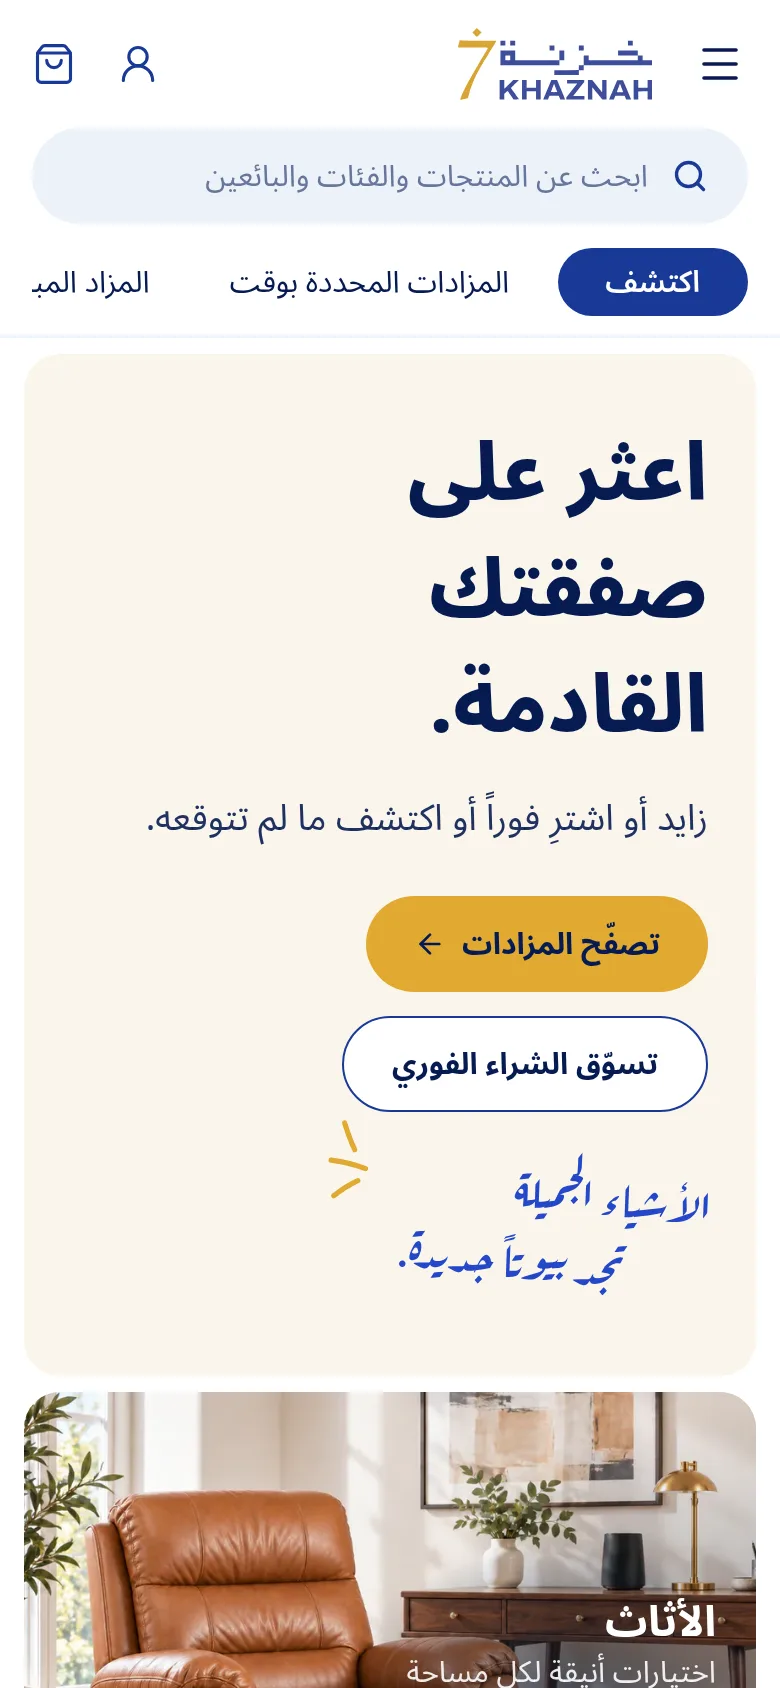
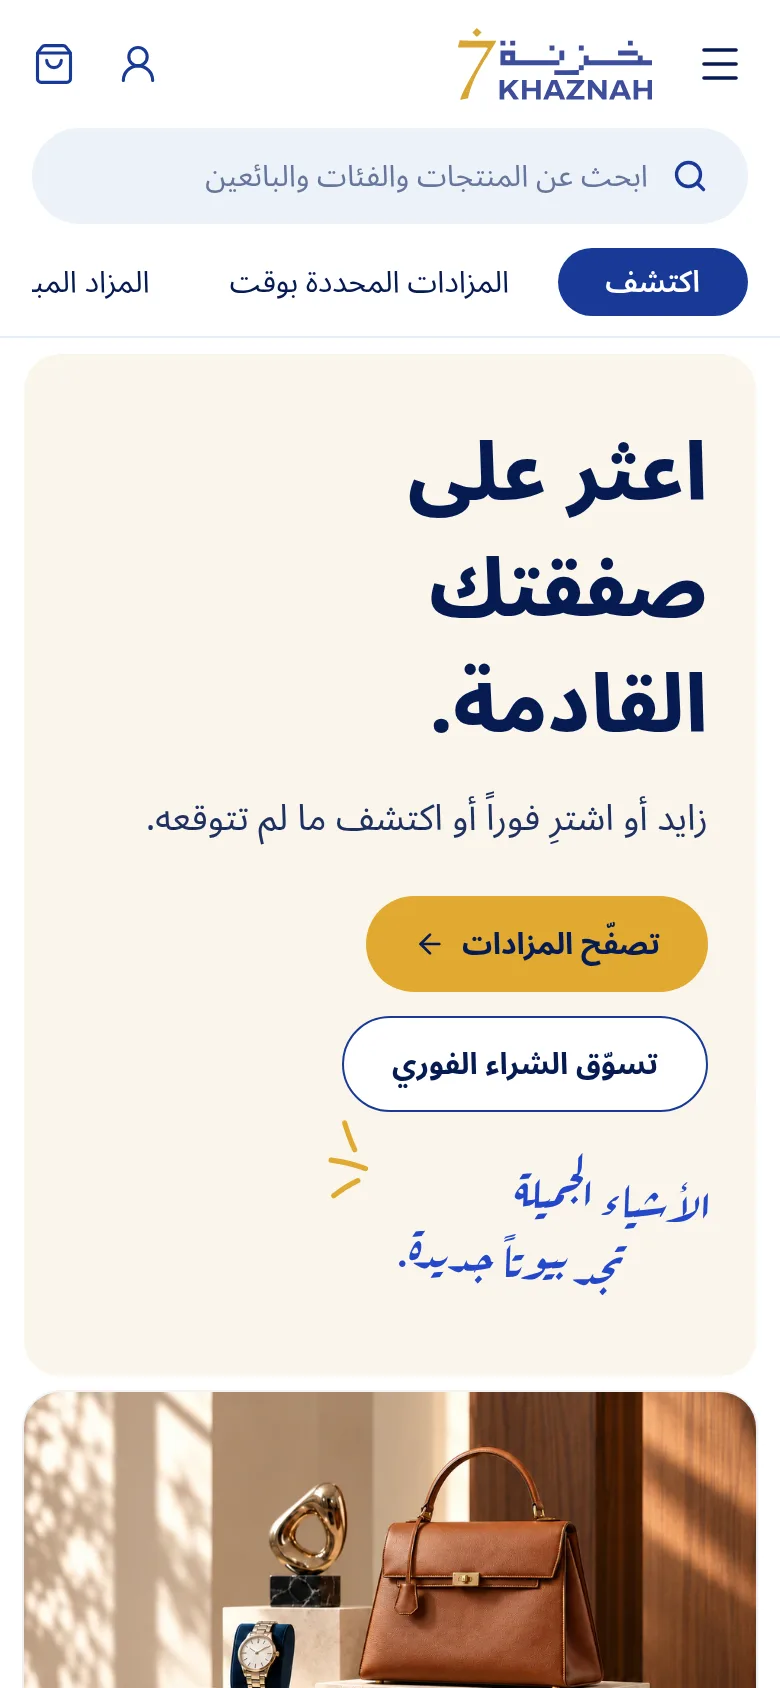
feat: add approved Option 3 marketplace navigation artwork
Replace the Option 3 home hero's Furniture, Electronics and Home & Kitchen
tiles with the approved Auction, Buy Now and Live Auction artwork, in the
same places (Auction stays the largest). The six supplied pictures are
used exactly as supplied: byte-identical masters in
assets-src/option3-cards/ (SHA-256 in ASSET_MANIFEST.json) and WebP
derivatives written by scripts/process-option3-cards.mjs.

- Each language shows its own pictures through the existing /en and /ar
  routes; each card is one link to the existing route for its mode
  (/browse?tab=auction, /browse?tab=buy_now, /live-auction) with an
  accessible name, a decorative picture and a strong focus ring.
- The old tile labels, Explore button, circular arrows and the tote card
  overlay are removed.
- The pictures are fitted around their words, button, products and live
  dot (CSS container units), so nothing is cut at any width; below 1200 px
  the cards follow the pictures' own proportions.
- Refresh the concept selector's Option 3 preview images.

Claude-Session: https://claude.ai/code/session_01SDCz7T7Y1cUSwp1KJV4JsJ

Changed region(s): [[0.0308, 0.8009, 0.9846, 1.0]]

diff --git a/design-preview/components/concept-c/visual-discovery/Hero.jsx b/design-preview/components/concept-c/visual-discovery/Hero.jsx
@@ -5,12 +5,9 @@ import { useId } from "react";
 import { useLang } from "@/components/shared/providers/LangProvider";
 import { useConcept } from "@/components/shared/providers/ConceptProvider";
 import { Img } from "@/components/shared/ui/Img";
-import { Money } from "@/components/shared/ui/Money";
-import { CATEGORY_BY_SLUG } from "@/data/categories";
-import { detailPath } from "@/lib/catalog";
 import { COPY } from "./copy";
-import { HERO } from "./data";
-import { Arrow, HeartDisk, btn, cx } from "./ui";
+import { HERO_CARDS } from "./data";
+import { Arrow, btn, cx } from "./ui";
 
 /** Three small gold sketch strokes beside the handwritten line. */
 function SketchMarks({ className = "" }) {
@@ -59,87 +56,56 @@ function CopyTile({ titleId }) {
 }
 
 /**
- * Centre scene: furniture photograph (A5) with a Furniture label and the
- * overlapping tote card. When the tile is at least 512 px wide (552 px in
- * the 1440 composition) both overlays sit on the photograph's clear floor;
- * on narrower tiles the label moves above the card and gets its own soft
- * scrim, because it then lies over the room rather than the floor.
+ * One of the three ways to shop as its approved artwork card (HERO_CARDS):
+ * the whole card is one link to that mode's existing page, named in
+ * aria-label; the picture is decorative (alt="") because its words would
+ * only repeat that name. The picture is never cropped into its safe area —
+ * words, button, products, live dot: it is scaled and placed to keep that
+ * area in the card with a margin (cover wherever that allows; see .vd-mode
+ * in styles/r3-visual-discovery.css). Hover: a 1.5 % zoom and a soft lift;
+ * focus: a 3 px indigo ring.
  */
-function FurnitureTile() {
-  const { t, ui } = useLang();
+function ModeCard({ card, className = "" }) {
+  const { t, lang } = useLang();
   const { link } = useConcept();
-  const tote = HERO.tote;
+  const art = card.art[lang];
   return (
-    <div className="@container relative h-full min-h-[380px] overflow-hidden rounded-[18px] bg-[#e8e1d8]">
-      <Img image={HERO.furniture.image} alt="" priority sizes="(min-width: 1200px) 556px, (min-width: 768px) 50vw, 100vw" className="absolute inset-0 size-full object-cover" style={{ objectPosition: HERO.furniture.focus }} />
-      <span aria-hidden="true" className="absolute inset-y-0 start-0 w-[70%] bg-[radial-gradient(ellipse_at_bottom_left,rgb(6_20_40/0.72),rgb(6_20_40/0.3)_45%,transparent_70%)] rtl:bg-[radial-gradient(ellipse_at_bottom_right,rgb(6_20_40/0.72),rgb(6_20_40/0.3)_45%,transparent_70%)]" />
-      <div className="absolute bottom-[178px] start-5 isolate max-w-[70%] text-white before:absolute before:-inset-x-8 before:-inset-y-6 before:-z-10 before:bg-[radial-gradient(closest-side,rgb(6_20_40/0.55),transparent)] before:content-[''] @min-[512px]:bottom-[10px] @min-[512px]:start-[14px] @min-[512px]:max-w-[48%] @min-[512px]:before:hidden">
-        <p className="vd-h3 !text-[21px] !leading-7 text-white">{t(COPY.furniture)}</p>
-        <p className="vd-md text-white/90">{t(COPY.furnitureText)}</p>
-        <Link href={link("/browse?category=furniture")} aria-label={t(COPY.exploreNamed, { name: t(COPY.furniture) })} className={btn("white", "sm", "mt-3 h-[38px] gap-3 px-5 dt:mt-[9px] dt:h-[34px] dt:px-[22px]")}>
-          {t(COPY.explore)}
-          <Arrow />
-        </Link>
-      </div>
-      {/* Overlapping tote card, anchored in the scene's lower end corner */}
-      <article className="absolute bottom-[11px] end-[11px] grid h-[154px] w-[284px] grid-cols-[112px_minmax(0,1fr)] overflow-hidden rounded-[16px] bg-[var(--vd-ivory)] shadow-[0_10px_28px_-12px_rgb(7_27_82/0.45)] max-sm:w-[250px]">
-        <div className="relative">
-          <Img image={tote.images[0]} cutout alt="" sizes="112px" className="absolute inset-0 size-full object-contain px-2.5 py-3" />
-        </div>
-        <div className="relative flex min-w-0 flex-col justify-center pe-3">
-          <HeartDisk product={tote} className="absolute end-2 top-2 !size-8 shadow-none" />
-          <h3 className="line-clamp-2 pe-7 vd-title !text-[14px] !leading-[18px] text-[var(--vd-ink)]">
-            <Link href={link(detailPath(tote))} className="after:absolute after:inset-0 after:content-[''] hover:underline">
-              {t(tote.title)}
-            </Link>
-          </h3>
-          <span className="sr-only">{ui("buyNow")}</span>
-          <Money value={tote.price} className="mt-2 self-start vd-price !text-[22px] text-[var(--vd-ink)]" symbolClassName="text-[0.72em]" />
-        </div>
-      </article>
-    </div>
-  );
-}
-
-/** Category photo tile with a white label plate and a circular arrow. */
-function CategoryPhotoTile({ slug, image, focus, text, plate = false, className = "" }) {
-  const { t } = useLang();
-  const { link } = useConcept();
-  const category = CATEGORY_BY_SLUG[slug];
-  return (
-    <Link href={link(`/browse?category=${slug}`)} className={cx("group relative block overflow-hidden rounded-[18px] outline-offset-2", plate ? "bg-[#dfe8f1]" : "bg-[#f3d9cc]", className)}>
-      <Img
-        image={image}
-        alt=""
-        sizes="(min-width: 1200px) 401px, 50vw"
-        cutout={plate}
-        className={cx("absolute transition-transform duration-300 group-hover:scale-[1.02]", plate ? "end-[4%] top-[7%] h-[70%] w-[80%] object-contain object-right" : "inset-0 size-full object-cover")}
-        style={focus ? { objectPosition: focus } : undefined}
-      />
-      <span className="absolute bottom-[14px] start-0 max-w-[calc(100%-84px)] rounded-e-[14px] bg-white/95 py-2 pe-5 ps-4 dt:bottom-[15px] dt:max-w-[62%]">
-        <span className="block vd-h3 !text-[18px] !leading-6 text-[var(--vd-ink)]">{t(category.name)}</span>
-        <span className="block vd-sm text-[var(--vd-muted)]">{text}</span>
-      </span>
-      <span aria-hidden="true" className="absolute bottom-[14px] end-3 grid size-[52px] place-items-center rounded-full bg-white text-[var(--vd-ink)] shadow-[0_4px_14px_rgb(7_27_82/0.12)] dt:bottom-[17px]">
-        <Arrow className="size-5" />
-      </span>
+    <Link
+      href={link(card.href)}
+      aria-label={t(COPY[card.label])}
+      className={cx(
+        "vd-mode group relative block overflow-hidden rounded-[18px] bg-[#f1e8dc] shadow-[0_1px_2px_rgb(7_27_82/0.06)] ring-1 ring-[var(--vd-ink)]/[0.06] transition-[box-shadow,translate] duration-300 hover:-translate-y-px hover:shadow-[0_16px_34px_-18px_rgb(7_27_82/0.45)] hover:ring-[var(--vd-gold)]/40 focus-visible:outline-[3px] focus-visible:outline-offset-[3px] focus-visible:outline-[var(--vd-indigo)]",
+        className,
+      )}
+      style={art.fit}
+    >
+      <Img image={art.image} alt="" priority sizes={card.sizes} className="vd-mode-art transition-transform duration-500 ease-out group-hover:scale-[1.015]" />
     </Link>
   );
 }
 
+/**
+ * Copy tile, then the three cards: Auction the largest, Buy Now before
+ * Live Auction. From 1200 px the approved three-column mosaic (copy ·
+ * Auction · Buy Now over Live Auction, 520 px high). 1000–1199 px: copy
+ * beside a square Auction card, Buy Now and Live Auction side by side
+ * below. 640–999 px: the copy across the top, then Auction beside Buy Now
+ * over Live Auction. Phones stack the copy and the three cards. Below
+ * 1200 px every card keeps (about) its picture's own proportions, so each
+ * picture shows whole.
+ */
 export function HeroMosaic() {
-  const { t } = useLang();
   const titleId = useId();
   return (
     <section data-ref="03" aria-labelledby={titleId} className="vd-wide pt-2 dt:pt-[8px]">
-      <div className="grid gap-2 md:grid-cols-2 dt:min-h-[520px] dt:grid-cols-[minmax(0,436fr)_minmax(0,556fr)_minmax(0,401fr)] dt:grid-rows-[minmax(0,1fr)] dt:gap-[8px]">
-        <div className="md:col-span-1 dt:col-auto">
+      <div className="grid gap-2 sm:grid-cols-[minmax(0,1.286fr)_minmax(0,1fr)] min-[62.5rem]:grid-cols-2 dt:min-h-[520px] dt:grid-cols-[minmax(0,436fr)_minmax(0,556fr)_minmax(0,401fr)] dt:grid-rows-[minmax(0,1fr)] dt:gap-[8px]">
+        <div className="sm:col-span-2 min-[62.5rem]:col-span-1 dt:col-auto">
           <CopyTile titleId={titleId} />
         </div>
-        <FurnitureTile />
-        <div className="grid gap-2 sm:grid-cols-2 md:col-span-2 dt:col-auto dt:grid-cols-1 dt:grid-rows-[243fr_269fr] dt:gap-[8px]">
-          <CategoryPhotoTile slug="electronics" image={HERO.electronics.image} focus={HERO.electronics.focus} text={t(COPY.electronicsText)} className="min-h-[190px]" />
-          <CategoryPhotoTile slug="home-kitchen" image={HERO.kitchen.image} focus={HERO.kitchen.focus} text={t(COPY.kitchenText)} className="min-h-[190px]" />
+        <ModeCard card={HERO_CARDS.auction} className="aspect-square self-stretch sm:aspect-auto min-[62.5rem]:aspect-square dt:aspect-auto" />
+        <div className="grid gap-2 min-[62.5rem]:col-span-2 min-[62.5rem]:grid-cols-2 dt:col-auto dt:grid-cols-1 dt:grid-rows-[243fr_269fr] dt:gap-[8px]">
+          <ModeCard card={HERO_CARDS.buyNow} className="aspect-[1564/1006] dt:aspect-auto" />
+          <ModeCard card={HERO_CARDS.live} className="aspect-[1564/1006] dt:aspect-auto" />
         </div>
       </div>
     </section>

diff --git a/design-preview/components/concept-c/visual-discovery/data.js b/design-preview/components/concept-c/visual-discovery/data.js
@@ -7,23 +7,64 @@ import { photo } from "@/data/media";
 import { getProduct } from "@/data/products";
 import { SELLER_BY_CODE } from "@/data/sellers";
 import { endingSoon, featuredBuyNow } from "@/lib/catalog";
-import { WORK_MEDIA } from "@/components/shared/r3/work-media";
 import { PRIORITY_2 } from "@/components/shared/r3/work-media-p2";
 
 /**
- * Hero mosaic. The furniture scene is the approved A5 photograph (tan
- * recliner and walnut desk; its lower 28 % is clear floor for the label and
- * the tote card). `focus` keeps the whole chair in view from the widest tile
- * (1.06:1) to the narrowest (0.61:1). The Electronics and Home & Kitchen
- * tiles are the Priority 2 scenes (B5 TV, B6 red coffee maker); their
- * `focus` keeps the top of the TV and of the coffee maker in view in the
- * wide tablet tiles (2.6–3:1 between 1024 and 1199 px).
+ * Hero cards: the approved artwork for the three ways to shop, one picture
+ * per language, used exactly as supplied (assets-src/option3-cards/; the
+ * words, button and products are part of each picture). Each opens the
+ * existing route for its mode. `safe` is the part of the picture that must
+ * always stay in view — the words, the button, the products and the live
+ * dot — as [left, top, right, bottom] in the picture's own pixels; the card
+ * fits the picture around it (see ModeCard in Hero.jsx).
  */
-export const HERO = {
-  furniture: { image: WORK_MEDIA.furnitureScene, focus: "20% 30%" },
-  electronics: { image: PRIORITY_2.heroElectronics, focus: "60% 18%", slug: "electronics" },
-  kitchen: { image: PRIORITY_2.heroKitchen, focus: "68% 20%", slug: "home-kitchen" },
-  tote: getProduct("suede-tote"),
+const cardSources = (name, width, height, widths) =>
+  [...widths, width].map((w) => ({ src: `/images/work/option3-cards/${name}-${w}.webp`, w, h: Math.round((w * height) / width) }));
+
+function artwork(name, width, height, widths, safe) {
+  const [x0, y0, x1, y1] = safe;
+  return {
+    image: { kind: "scene", ratio: width / height, sources: cardSources(name, width, height, widths) },
+    // Read by .vd-mode (styles/r3-visual-discovery.css); --edge feeds the edge strips.
+    fit: {
+      "--edge": `url("/images/work/option3-cards/${name}-${widths[0]}.webp")`,
+      "--ratio": (width / height).toFixed(5),
+      "--fit-x": (width / (x1 - x0)).toFixed(5),
+      "--fit-y": (width / (y1 - y0)).toFixed(5),
+      "--cx": ((x0 + x1) / 2 / width).toFixed(5),
+      "--cy": ((y0 + y1) / 2 / height).toFixed(5),
+    },
+  };
+}
+
+export const HERO_CARDS = {
+  auction: {
+    href: "/browse?tab=auction",
+    label: "modeAuction",
+    sizes: "(min-width: 1200px) 560px, (min-width: 1000px) 50vw, (min-width: 640px) 56vw, calc(100vw - 24px)",
+    art: {
+      en: artwork("option3-auction-en", 1254, 1254, [640, 960], [75, 95, 1190, 1185]),
+      ar: artwork("option3-auction-ar", 1254, 1254, [640, 960], [330, 95, 1190, 1185]),
+    },
+  },
+  buyNow: {
+    href: "/browse?tab=buy_now",
+    label: "modeBuyNow",
+    sizes: "(min-width: 1200px) 420px, (min-width: 1000px) 50vw, (min-width: 640px) 44vw, calc(100vw - 24px)",
+    art: {
+      en: artwork("option3-buy-now-en", 1564, 1006, [640, 960, 1280], [85, 210, 1445, 700]),
+      ar: artwork("option3-buy-now-ar", 1565, 1005, [640, 960, 1280], [110, 210, 1495, 729]),
+    },
+  },
+  live: {
+    href: "/live-auction",
+    label: "modeLive",
+    sizes: "(min-width: 1200px) 420px, (min-width: 1000px) 50vw, (min-width: 640px) 44vw, calc(100vw - 24px)",
+    art: {
+      en: artwork("option3-live-auction-en", 1564, 1006, [640, 960, 1280], [95, 255, 1290, 727]),
+      ar: artwork("option3-live-auction-ar", 1565, 1005, [640, 960, 1280], [252, 255, 1478, 732]),
+    },
+  },
 };
 
 /** Eight outlined icon pills, four by two, in the approved order. */

diff --git a/design-preview/styles/r3-visual-discovery.css b/design-preview/styles/r3-visual-discovery.css
@@ -349,6 +349,51 @@
   .vd-no-spin::-webkit-outer-spin-button { appearance: none; margin: 0; }
 }
 
+/* ── Hero cards (Hero.jsx ModeCard) ─────────────────────────────────────── */
+@layer components {
+  /* Each card is a size container, so the artwork can be fitted to it. The
+     picture is drawn as large as "cover" would draw it, but never larger
+     than keeps its safe area (--fit-x / --fit-y: picture width over the safe
+     area's width / height) inside the card with --m to spare. It is centred
+     on the safe area (--cx / --cy) without leaving a gap where it can cover.
+     Where it has to be drawn smaller than the card (some 1200–1279 px
+     layouts), the strips above and below repeat the picture's own top and
+     bottom edge, softly blurred, so the card stays whole. The geometry is
+     left unresolved here and resolved by the picture and the strips against
+     this card. */
+  .vd-mode {
+    container-type: size;
+    --m: 12px;
+    --w: min(max(100cqw, 100cqh * var(--ratio)), (100cqw - 2 * var(--m)) * var(--fit-x), (100cqh - 2 * var(--m)) * var(--fit-y));
+    --h: calc(var(--w) / var(--ratio));
+    --l: clamp(min(0px, 100cqw - var(--w)), 50cqw - var(--w) * var(--cx), max(0px, 100cqw - var(--w)));
+    --t: clamp(min(0px, 100cqh - var(--h)), 50cqh - var(--h) * var(--cy), max(0px, 100cqh - var(--h)));
+  }
+  .vd-mode-art {
+    position: absolute;
+    max-width: none;
+    width: var(--w);
+    height: var(--h);
+    left: var(--l);
+    top: var(--t);
+  }
+  .vd-mode::before,
+  .vd-mode::after {
+    content: "";
+    position: absolute;
+    left: 0;
+    right: 0;
+    z-index: 1;
+    background-image: var(--edge);
+    background-repeat: no-repeat;
+    background-size: var(--w) calc(var(--h) * 50);
+    filter: blur(3px);
+    pointer-events: none;
+  }
+  .vd-mode::before { top: 0; height: max(0px, var(--t)); background-position: var(--l) 0; }
+  .vd-mode::after { bottom: 0; height: max(0px, 100cqh - var(--t) - var(--h)); background-position: var(--l) 100%; }
+}
+
 /* ── Auction detail ────────────────────────────────────────────────────── */
 @layer components {
   /* Lot title: a display heading, a step under the Browse page title. */

diff --git a/design-preview/components/concept-c/visual-discovery/copy.js b/design-preview/components/concept-c/visual-discovery/copy.js
@@ -49,12 +49,10 @@ export const COPY = {
     { en: "Good things", ar: "الأشياء الجميلة" },
     { en: "find new homes.", ar: "تجد بيوتاً جديدة." },
   ],
-  furniture: { en: "Furniture", ar: "الأثاث" },
-  furnitureText: { en: "Stylish picks for every space", ar: "اختيارات أنيقة لكل مساحة" },
-  explore: { en: "Explore", ar: "استكشف" },
-  exploreNamed: { en: "Explore {name}", ar: "استكشف {name}" },
-  electronicsText: { en: "Top brands, great finds", ar: "علامات معروفة وصفقات رائعة" },
-  kitchenText: { en: "Everything for your home.", ar: "كل ما يحتاجه منزلك." },
+  // Hero cards: each card's whole-card link name (the artwork carries its own words).
+  modeAuction: { en: "Auction — Explore timed auctions", ar: "المزادات — استكشف المزادات المحددة بوقت" },
+  modeBuyNow: { en: "Buy Now — Shop fixed-price items", ar: "اشترِ الآن — تسوّق المنتجات بسعر ثابت" },
+  modeLive: { en: "Live Auction — Join live auctions", ar: "المزاد المباشر — انضم إلى المزادات المباشرة" },
 
   // Categories
   categoriesLabel: { en: "Shop by category", ar: "تسوّق حسب الفئة" },

diff --git a/design-preview/assets-src/option3-cards/DERIVATIVES.md b/design-preview/assets-src/option3-cards/DERIVATIVES.md
@@ -1,0 +1,34 @@
+# Option 3 hero cards — source to derivative mapping
+
+Approved final artwork for the Option 3 home hero cards (Auction, Buy Now, Live Auction; English and
+Arabic), used exactly as supplied. Generated by `scripts/process-option3-cards.mjs` from the masters in
+this folder (byte-identical to the supplied files listed in `ASSET_MANIFEST.json`, SHA-256 checked).
+Served from `public/images/work/option3-cards/`. Nothing is upscaled or cropped; the widest file of
+each card is the master at its own size.
+
+| Source (master) | Master px | Derivative | Px | Bytes |
+|---|---|---|---|---|
+| `option3-auction-en.png` | 1254 × 1254 | `option3-auction-en-640.webp` | 640 × 640 | 68,742 |
+| `option3-auction-en.png` | 1254 × 1254 | `option3-auction-en-960.webp` | 960 × 960 | 138,628 |
+| `option3-auction-en.png` | 1254 × 1254 | `option3-auction-en-1254.webp` | 1254 × 1254 | 217,048 |
+| `option3-auction-ar.png` | 1254 × 1254 | `option3-auction-ar-640.webp` | 640 × 640 | 63,520 |
+| `option3-auction-ar.png` | 1254 × 1254 | `option3-auction-ar-960.webp` | 960 × 960 | 128,080 |
+| `option3-auction-ar.png` | 1254 × 1254 | `option3-auction-ar-1254.webp` | 1254 × 1254 | 192,666 |
+| `option3-buy-now-en.png` | 1564 × 1006 | `option3-buy-now-en-640.webp` | 640 × 412 | 55,698 |
+| `option3-buy-now-en.png` | 1564 × 1006 | `option3-buy-now-en-960.webp` | 960 × 617 | 104,078 |
+| `option3-buy-now-en.png` | 1564 × 1006 | `option3-buy-now-en-1280.webp` | 1280 × 823 | 159,398 |
+| `option3-buy-now-en.png` | 1564 × 1006 | `option3-buy-now-en-1564.webp` | 1564 × 1006 | 201,210 |
+| `option3-buy-now-ar.png` | 1565 × 1005 | `option3-buy-now-ar-640.webp` | 640 × 411 | 56,302 |
+| `option3-buy-now-ar.png` | 1565 × 1005 | `option3-buy-now-ar-960.webp` | 960 × 616 | 108,720 |
+| `option3-buy-now-ar.png` | 1565 × 1005 | `option3-buy-now-ar-1280.webp` | 1280 × 822 | 169,596 |
+| `option3-buy-now-ar.png` | 1565 × 1005 | `option3-buy-now-ar-1565.webp` | 1565 × 1005 | 226,000 |
+| `option3-live-auction-en.png` | 1564 × 1006 | `option3-live-auction-en-640.webp` | 640 × 412 | 41,760 |
+| `option3-live-auction-en.png` | 1564 × 1006 | `option3-live-auction-en-960.webp` | 960 × 617 | 73,986 |
+| `option3-live-auction-en.png` | 1564 × 1006 | `option3-live-auction-en-1280.webp` | 1280 × 823 | 117,374 |
+| `option3-live-auction-en.png` | 1564 × 1006 | `option3-live-auction-en-1564.webp` | 1564 × 1006 | 155,592 |
+| `option3-live-auction-ar.png` | 1565 × 1005 | `option3-live-auction-ar-640.webp` | 640 × 411 | 41,888 |
+| `option3-live-auction-ar.png` | 1565 × 1005 | `option3-live-auction-ar-960.webp` | 960 × 616 | 75,132 |
+| `option3-live-auction-ar.png` | 1565 × 1005 | `option3-live-auction-ar-1280.webp` | 1280 × 822 | 120,512 |
+| `option3-live-auction-ar.png` | 1565 × 1005 | `option3-live-auction-ar-1565.webp` | 1565 × 1005 | 159,230 |
+
+WebP settings: quality 92, effort 6, smart subsampling (the lettering is part of the picture).
